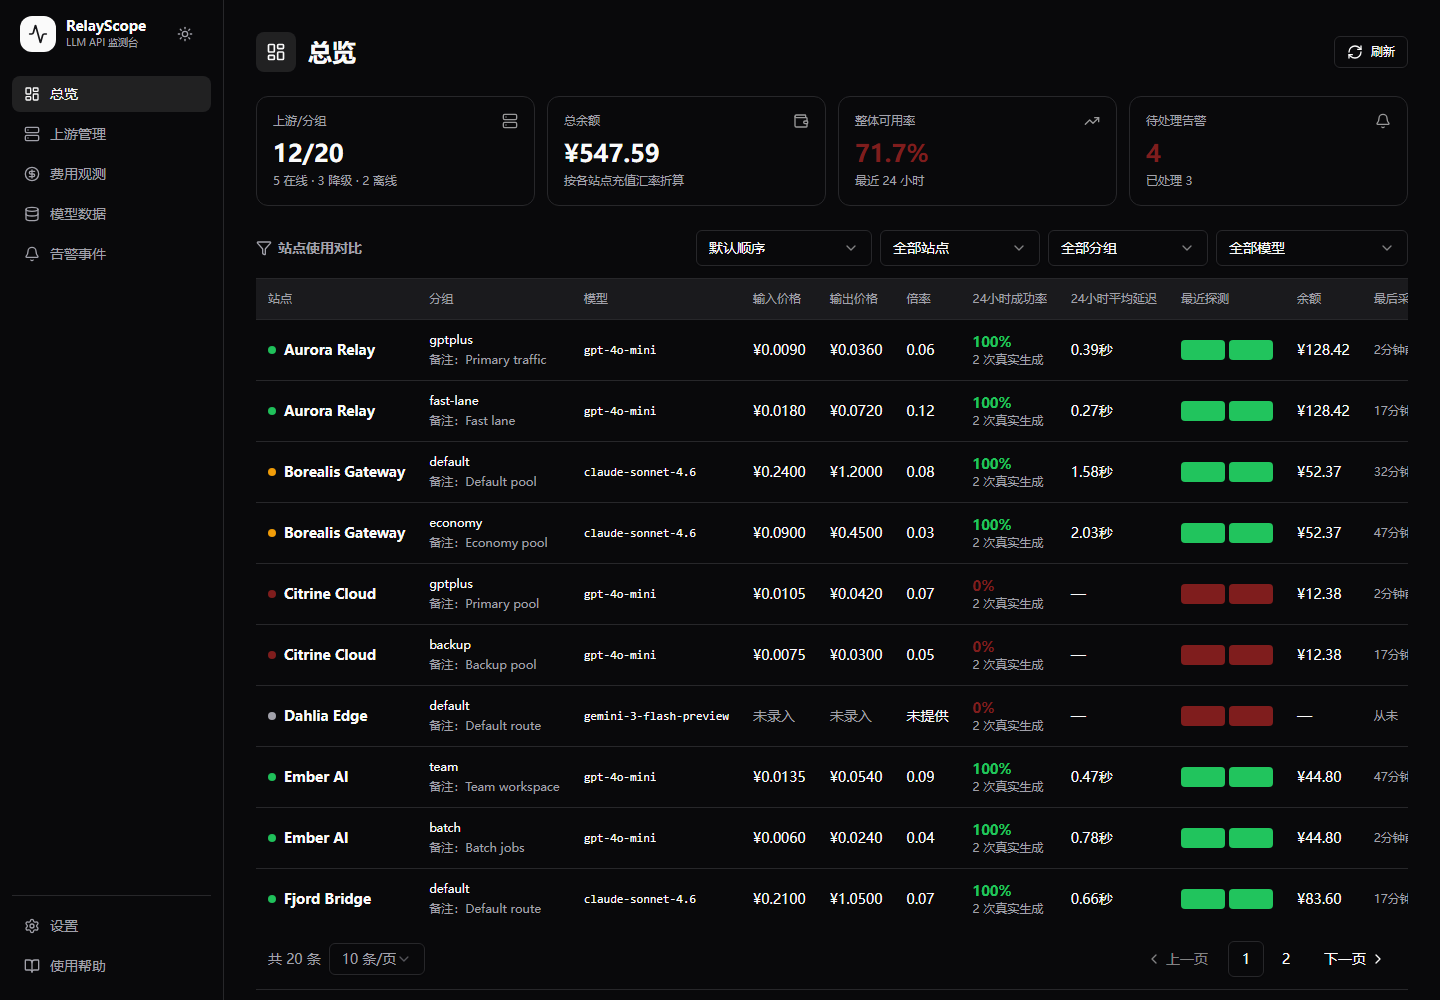
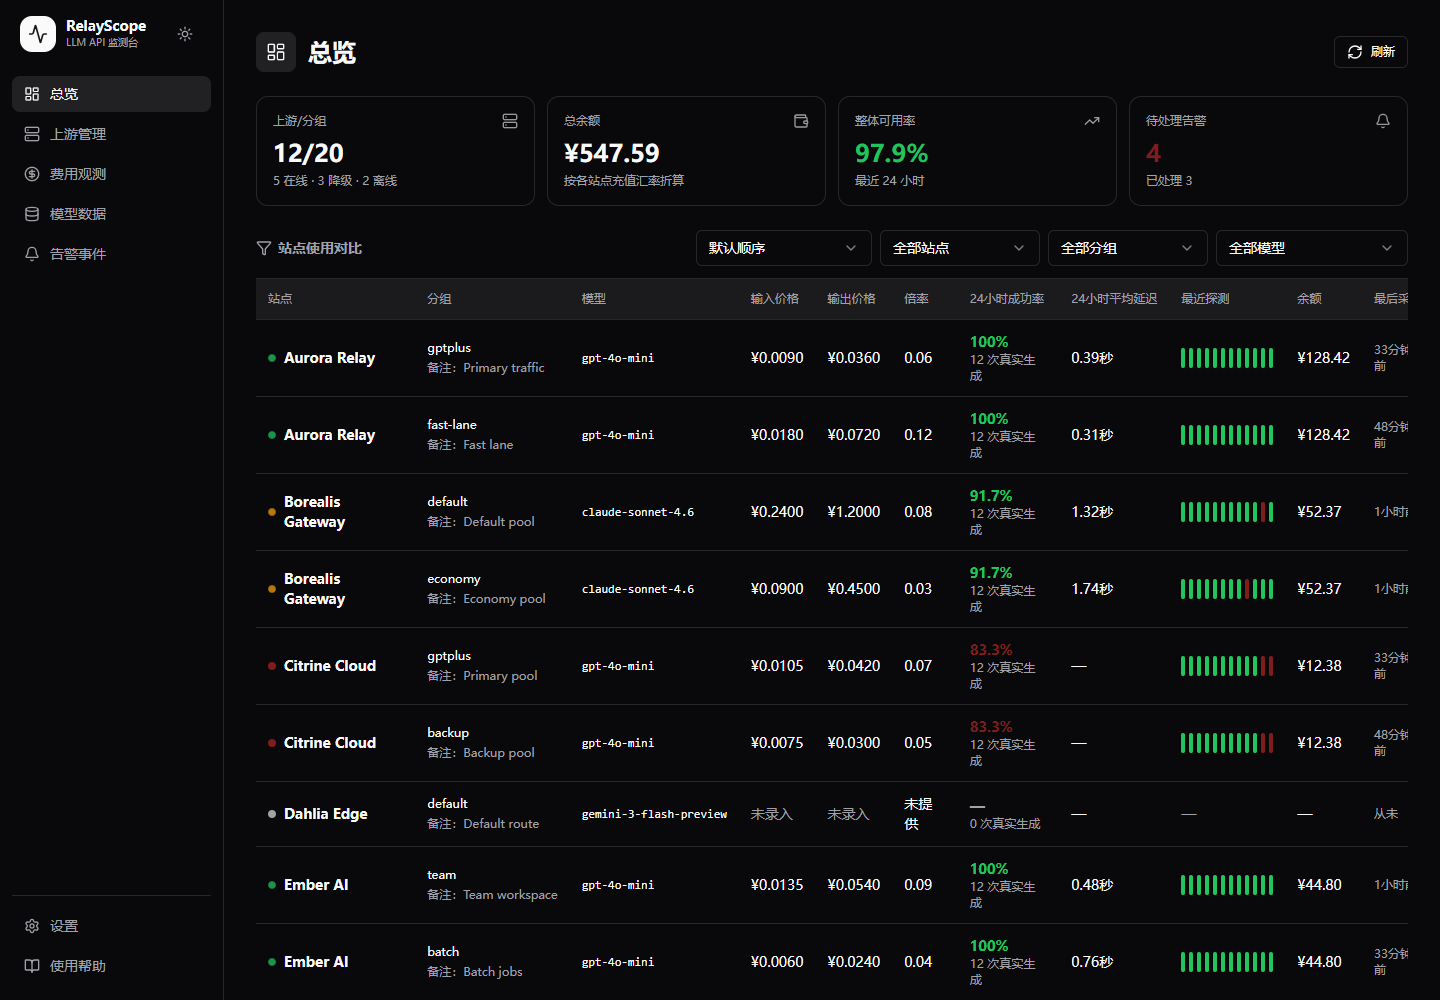
Refresh dashboard showcase data

diff --git a/src/lib/demo-data.ts b/src/lib/demo-data.ts
@@ -257,37 +257,56 @@ function buildMetrics(keys: DemoKeyRecord[], referenceDate: Date): DemoMetricRec
   const metrics: DemoMetricRecord[] = [];
 
   keys.forEach((keyRecord, keyIndex) => {
+    if (keyRecord.status === 'UNKNOWN') return;
+
+    const appendMetric = (
+      day: number,
+      sample: number,
+      samplesPerDay: number,
+      intervalHours: number,
+      probeMode: 'LIGHT' | 'HEAVY'
+    ) => {
+      const hoursAgo = (6 - day) * 24 + (samplesPerDay - 1 - sample) * intervalHours;
+      const recordedAt = new Date(referenceDate.getTime() - hoursAgo * 60 * 60 * 1000);
+      const variation = ((day * samplesPerDay + sample + keyIndex) % 5) - 2;
+      const latestDay = day === 6;
+      const recentOutage = keyRecord.status === 'OFFLINE'
+        && latestDay
+        && sample >= samplesPerDay - (probeMode === 'HEAVY' ? 2 : 1);
+      const intermittentFailure = keyRecord.status === 'DEGRADED'
+        && probeMode === 'HEAVY'
+        && latestDay
+        && sample === 8 + keyIndex % 3;
+      const failed = recentOutage || intermittentFailure;
+      const balance = keyRecord.lastBalance === null
+        ? null
+        : round(Math.max(0, keyRecord.lastBalance - (6 - day) * 0.35 + variation * 0.08));
+      const latency = failed || keyRecord.lastLatencyMs === null
+        ? null
+        : Math.max(120, keyRecord.lastLatencyMs + variation * 24 + (keyRecord.status === 'DEGRADED' ? (6 - day) * 12 : 0));
+
+      metrics.push({
+        keySlug: keyRecord.slug,
+        balance,
+        latencyMs: latency,
+        modelTestOk: failed ? false : true,
+        modelTestLatMs: latency === null ? null : latency + 80,
+        streamTps: latency === null ? null : round(Math.max(4, 42 - latency / 80 + variation)),
+        streamFirstLat: latency === null ? null : latency + 110,
+        probeMode,
+        testModel: probeMode === 'HEAVY' ? keyRecord.testModel : null,
+        success: !failed,
+        errorMessage: failed ? keyRecord.lastError : null,
+        recordedAt,
+      });
+    };
+
     for (let day = 0; day < 7; day += 1) {
       for (let sample = 0; sample < 8; sample += 1) {
-        const hoursAgo = (6 - day) * 24 + (7 - sample) * 3;
-        const recordedAt = new Date(referenceDate.getTime() - hoursAgo * 60 * 60 * 1000);
-        const variation = ((day * 8 + sample + keyIndex) % 5) - 2;
-        const unavailable = keyRecord.status === 'OFFLINE' || keyRecord.status === 'UNKNOWN';
-        const intermittentFailure =
-          keyRecord.status === 'DEGRADED' && (sample + day + keyIndex) % 9 === 0;
-        const failed = unavailable || intermittentFailure;
-        const balance = keyRecord.lastBalance === null
-          ? null
-          : round(Math.max(0, keyRecord.lastBalance - (6 - day) * 0.35 + variation * 0.08));
-        const latency = failed || keyRecord.lastLatencyMs === null
-          ? null
-          : Math.max(120, keyRecord.lastLatencyMs + variation * 24 + (keyRecord.status === 'DEGRADED' ? day * 45 : 0));
-
-        const probeMode = sample === 2 || sample === 6 ? 'HEAVY' : 'LIGHT';
-        metrics.push({
-          keySlug: keyRecord.slug,
-          balance,
-          latencyMs: latency,
-          modelTestOk: failed ? false : true,
-          modelTestLatMs: latency === null ? null : latency + 80,
-          streamTps: latency === null ? null : round(Math.max(4, 42 - latency / 80 + variation)),
-          streamFirstLat: latency === null ? null : latency + 110,
-          probeMode,
-          testModel: probeMode === 'HEAVY' ? keyRecord.testModel : null,
-          success: !failed,
-          errorMessage: failed ? keyRecord.lastError : null,
-          recordedAt,
-        });
+        appendMetric(day, sample, 8, 3, 'LIGHT');
+      }
+      for (let sample = 0; sample < 12; sample += 1) {
+        appendMetric(day, sample, 12, 2, 'HEAVY');
       }
     }
   });

diff --git a/src/lib/demo-data.test.ts b/src/lib/demo-data.test.ts
@@ -1,0 +1,21 @@
+import assert from 'node:assert/strict';
+import test from 'node:test';
+import { buildDemoDataset } from './demo-data';
+
+test('demo dashboard presents healthy availability with dense recent probes', () => {
+  const now = new Date('2026-07-27T12:00:00.000Z');
+  const dataset = buildDemoDataset(now);
+  const cutoff = new Date(now.getTime() - 24 * 60 * 60 * 1000);
+  const recent = dataset.metrics.filter((metric) => metric.recordedAt > cutoff);
+  const light = recent.filter((metric) => metric.probeMode === 'LIGHT');
+  const availability = light.filter((metric) => metric.success).length / light.length * 100;
+
+  assert.ok(availability >= 97);
+
+  for (const key of dataset.keys.filter((item) => item.status !== 'UNKNOWN')) {
+    const heavy = recent.filter(
+      (metric) => metric.keySlug === key.slug && metric.probeMode === 'HEAVY'
+    );
+    assert.equal(heavy.length, 12);
+  }
+});
